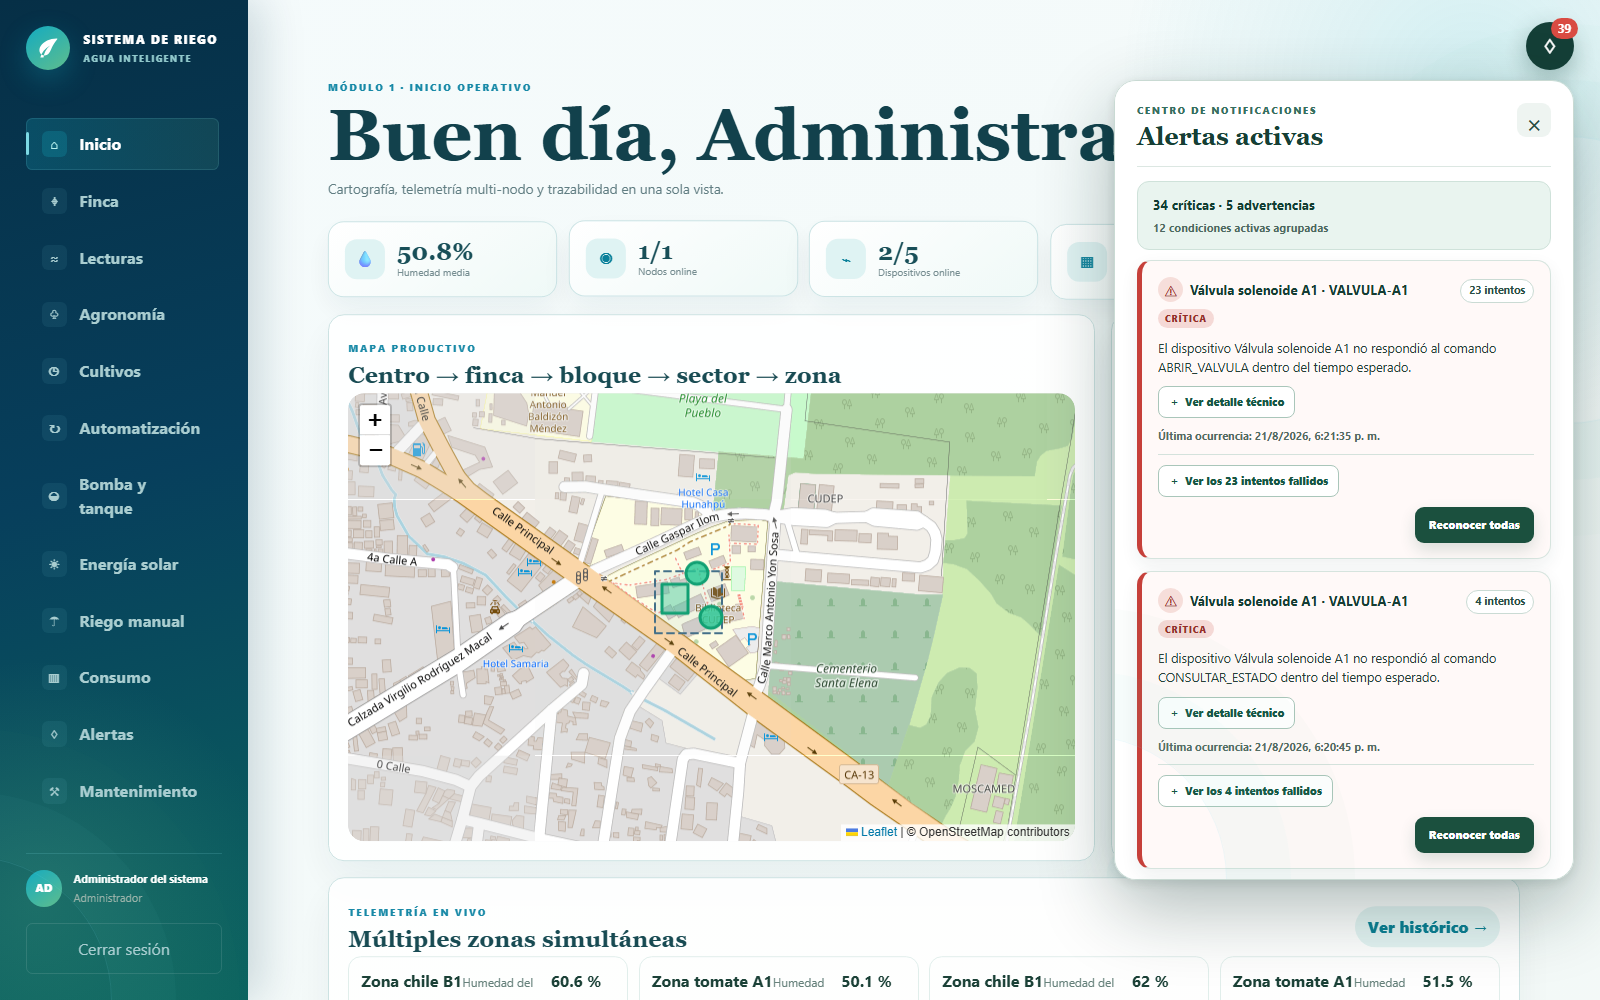
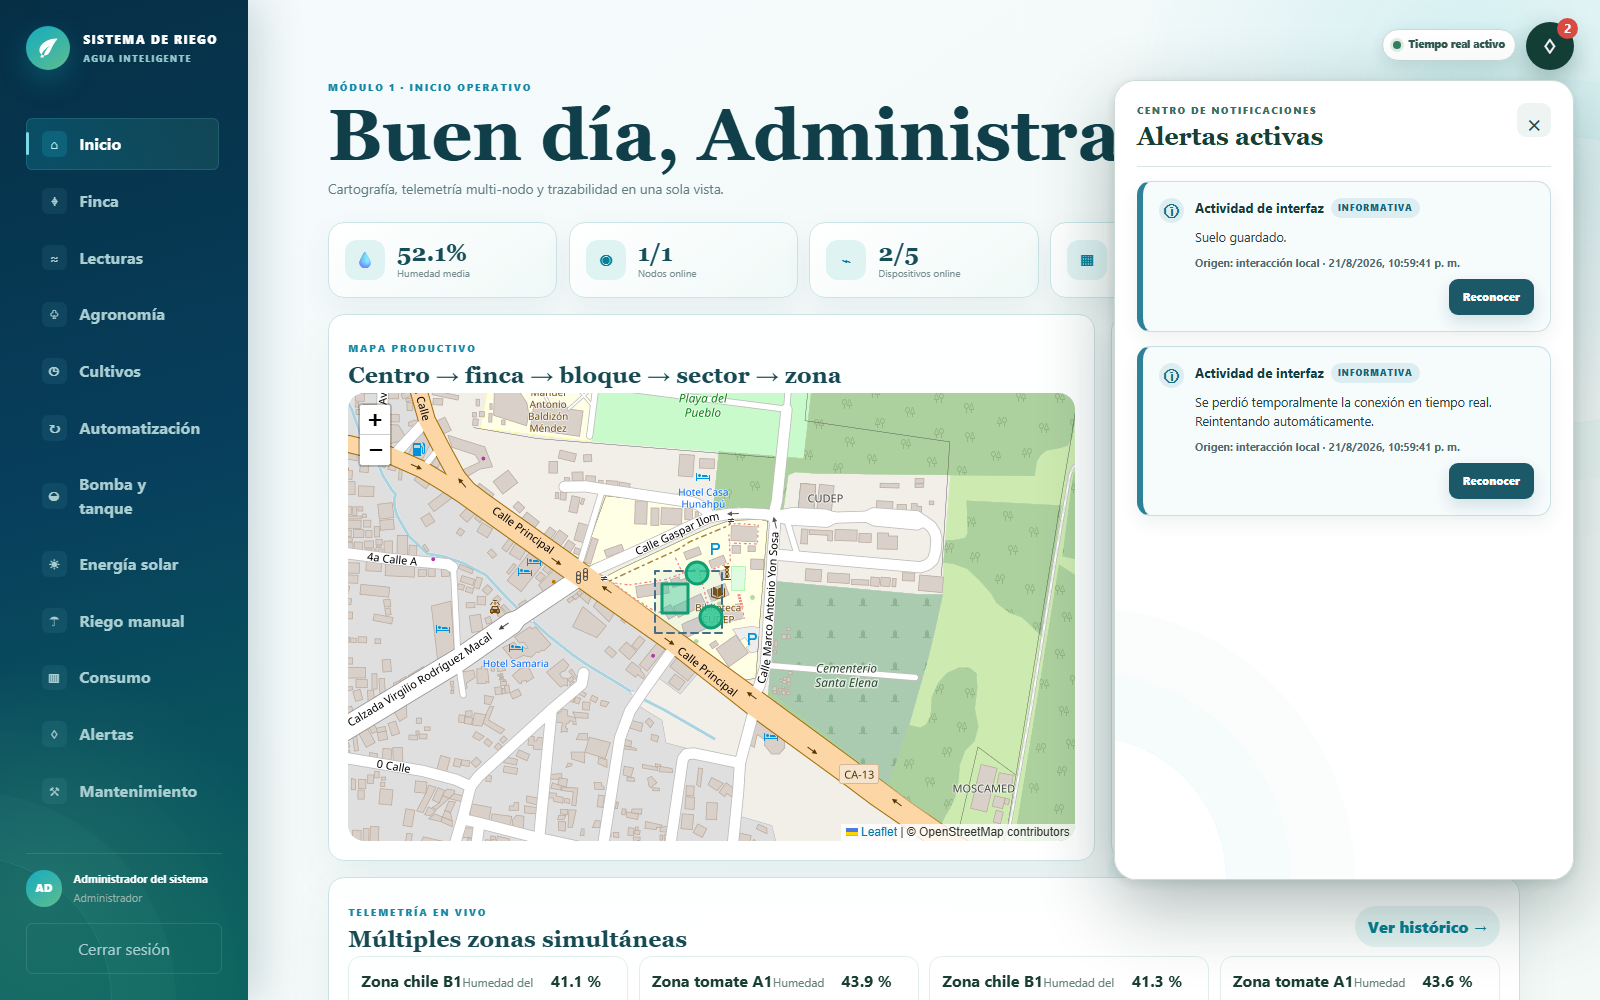
fix: polish informational notifications

diff --git a/frontend/src/Sprint5Operations.tsx b/frontend/src/Sprint5Operations.tsx
@@ -1,5 +1,6 @@
 import { useCallback, useEffect, useMemo, useRef, useState } from 'react'
 import * as signalR from '@microsoft/signalr'
+import { humanizeInterfaceMessage } from './notificationMessages'
 import './sprint5.css'
 
 interface Session { accessToken: string; user: { fullName: string; roles: string[] } }
@@ -7,6 +8,7 @@ interface Props { session: Session; notify: (message: string) => void }
 interface AlertItem { id: number; type: string; severity: string; status: string; origin: string; description: string; relatedEntityType?: string; relatedEntityId?: string; relatedEntityName?: string; raisedAtUtc: string; escalationLevel: number }
 interface LocalNotice { id: string; message: string; raisedAtUtc: string }
 interface AlertGroup { key: string; items: AlertItem[] }
+type RealtimeStatus = 'connecting' | 'online' | 'reconnecting' | 'offline'
 interface Plan { id: string; name: string; frequency: string; intervalDays?: number; equipmentType: string; equipmentId: string; scheduledAtUtc: string; status: string; assignedToEmail?: string; notes?: string }
 interface Incident { id: number; title: string; description: string; equipmentType: string; equipmentId: string; equipmentName?: string; severity: string; status: string; origin: string; createdAtUtc: string; assignedToEmail?: string; notes?: string }
 interface Activity { id: number; title: string; equipmentType: string; equipmentId: string; status: string; scheduledAtUtc: string; performedAtUtc?: string }
@@ -19,6 +21,7 @@ async function api<T>(path: string, token: string, method = 'GET', body?: unknow
   return data as T
 }
 const when = (value: string) => new Date(value).toLocaleString('es-GT')
+
 function Message({ description, name, type, id, heading = false }: { description: string; name?: string; type?: string; id?: string; heading?: boolean }) {
   const marker = '\nDetalle técnico: '
   const parts = description.split(marker)
@@ -44,7 +47,7 @@ function groupAlerts(items: AlertItem[]): AlertGroup[] {
   })).sort((left, right) => new Date(right.items[0].raisedAtUtc).getTime() - new Date(left.items[0].raisedAtUtc).getTime())
 }
 
-function useAlerts(session: Session, notify: (message: string) => void, onRaised?: (alert: AlertItem) => void) {
+function useAlerts(session: Session, notify: (message: string) => void, onRaised?: (alert: AlertItem) => void, onConnectionState?: (status: RealtimeStatus) => void) {
   const [items, setItems] = useState<AlertItem[]>([])
   const onRaisedRef = useRef(onRaised)
   useEffect(() => { onRaisedRef.current = onRaised }, [onRaised])
@@ -53,18 +56,24 @@ function useAlerts(session: Session, notify: (message: string) => void, onRaised
     load()
     const connection = new signalR.HubConnectionBuilder().withUrl(`${hubRoot}/hubs/telemetry`, { accessTokenFactory: () => session.accessToken }).withAutomaticReconnect().configureLogging(signalR.LogLevel.None).build()
     connection.on('alertRaised', (alert: AlertItem) => { onRaisedRef.current?.(alert); void load() })
-    connection.start().catch((error: Error) => notify(`SignalR alertas: ${error.message}`))
+    onConnectionState?.('connecting')
+    connection.onreconnecting(() => onConnectionState?.('reconnecting'))
+    connection.onreconnected(() => onConnectionState?.('online'))
+    connection.onclose(() => onConnectionState?.('offline'))
+    connection.start().then(() => onConnectionState?.('online')).catch(() => onConnectionState?.('offline'))
     return () => { void connection.stop() }
-  }, [load, notify, session.accessToken])
+  }, [load, onConnectionState, session.accessToken])
   return { items, load }
 }
 
 export function NotificationCenter({ session, localNotices, onAcknowledgeLocal }: { session: Session; localNotices: LocalNotice[]; onAcknowledgeLocal: (id: string) => void }) {
   const [open, setOpen] = useState(false)
   const [toast, setToast] = useState<AlertItem | null>(null)
+  const [realtimeStatus, setRealtimeStatus] = useState<RealtimeStatus>('connecting')
   const quiet = useCallback(() => undefined, [])
   const handleRaised = useCallback((alert: AlertItem) => setToast(alert), [])
-  const { items, load } = useAlerts(session, quiet, handleRaised)
+  const handleConnectionState = useCallback((status: RealtimeStatus) => setRealtimeStatus(status), [])
+  const { items, load } = useAlerts(session, quiet, handleRaised, handleConnectionState)
   const active = useMemo(() => items.filter(item => item.status === 'Activa'), [items])
   const groups = useMemo(() => groupAlerts(active), [active])
   const summary = useMemo(() => {
@@ -82,11 +91,13 @@ export function NotificationCenter({ session, localNotices, onAcknowledgeLocal }
     await Promise.all(alerts.map(item => api(`/alerts/${item.id}/acknowledge`, session.accessToken, 'POST')))
     await load()
   }
+  const realtimeLabel = realtimeStatus === 'online' ? 'Tiempo real activo' : realtimeStatus === 'reconnecting' ? 'Reconectando en tiempo real' : realtimeStatus === 'connecting' ? 'Conectando en tiempo real' : 'Tiempo real no disponible'
   return <div className="n-center">
+    <span className={`n-realtime ${realtimeStatus}`} role="status" title={realtimeStatus === 'reconnecting' ? 'Se perdió temporalmente la conexión en tiempo real. Reintentando automáticamente.' : realtimeLabel}><i/>{realtimeLabel}</span>
     <button className="n-bell" onClick={() => setOpen(!open)} aria-label="Centro de notificaciones">♢{active.length + localNotices.length > 0 && <b>{active.length + localNotices.length}</b>}</button>
     {toast && <section className={`n-toast ${toast.severity.toLocaleLowerCase('es')}`} role="status" aria-live="assertive"><header><b>Nueva alerta {toast.severity.toLocaleLowerCase('es')}</b><button aria-label="Descartar notificación" onClick={() => setToast(null)}>×</button></header><Message description={toast.description} name={toast.relatedEntityName} type={toast.relatedEntityType} id={toast.relatedEntityId}/><small>{when(toast.raisedAtUtc)}</small><button className="n-toast-detail" onClick={() => { setOpen(true); setToast(null) }}>Ver detalle</button></section>}
     {open && <aside><header><div><small>CENTRO DE NOTIFICACIONES</small><h2>Alertas activas</h2></div><button onClick={() => setOpen(false)}>×</button></header>
-      {localNotices.map(notice => <div className="n-local" key={notice.id}><b>Actividad de interfaz</b><span>{notice.message}</span><small>Origen: interacción local · {when(notice.raisedAtUtc)}</small><button onClick={() => onAcknowledgeLocal(notice.id)}>Reconocer</button></div>)}
+      {localNotices.map(notice => <article className="n-local" key={notice.id}><span className="n-local-icon" aria-hidden="true">ⓘ</span><div className="n-local-heading"><b>Actividad de interfaz</b><em>INFORMATIVA</em></div><p>{humanizeInterfaceMessage(notice.message)}</p><small>Origen: interacción local · {when(notice.raisedAtUtc)}</small><button onClick={() => onAcknowledgeLocal(notice.id)}>Reconocer</button></article>)}
       {active.length > 0 && <section className="n-summary" aria-label="Resumen de alertas activas"><b>{summary}</b><small>{groups.length} {groups.length === 1 ? 'condición activa' : 'condiciones activas'} agrupadas</small></section>}
       <div className="n-mini-list">{groups.slice(0, 8).map(group => {
         const latest = group.items[0]

diff --git a/frontend/src/Week2App.tsx b/frontend/src/Week2App.tsx
@@ -7,6 +7,7 @@ import { week2Api as api } from './week2Api'
 import Week3IoT from './Week3IoT'
 import EnergyPanel from './EnergyPanel'
 import { AlertsPanel, MaintenancePanel, NotificationCenter } from './Sprint5Operations'
+import { humanizeInterfaceMessage } from './notificationMessages'
 import { OperationalDashboard, TerritoryManager, TelemetryMonitor, AgronomyManager, CropPlanner } from './Modules1To7'
 import { AutomationPanel, WaterSupplyPanel, ManualIrrigationPanel, WaterOperationsPanel } from './Modules7To10'
 import { MasterCatalogManager, TwoFactorSetup, UserSecurityManager } from './Sprint2Administration'
@@ -69,7 +70,7 @@ function Audit({ session, notify }) {
 }
 
 function Shell({ session, onLogout }) {
-  const isAdmin=session.user.roles.includes('Administrador'); const canCatalog=session.user.roles.some(x=>['Administrador','Tecnico','Operador'].includes(x)); const [view,setView]=useState('inicio'); const [localNotices,setLocalNotices]=useState(()=>{try{return JSON.parse(sessionStorage.getItem('riego.localNotices')??'[]')}catch{return []}}); const notify=useCallback(message=>setLocalNotices(current=>[...current,{id:crypto.randomUUID(),message,raisedAtUtc:new Date().toISOString()}]),[]); const acknowledgeLocalNotice=useCallback(id=>setLocalNotices(current=>current.filter(item=>item.id!==id)),[]); useEffect(()=>sessionStorage.setItem('riego.localNotices',JSON.stringify(localNotices)),[localNotices])
+  const isAdmin=session.user.roles.includes('Administrador'); const canCatalog=session.user.roles.some(x=>['Administrador','Tecnico','Operador'].includes(x)); const [view,setView]=useState('inicio'); const [localNotices,setLocalNotices]=useState(()=>{try{return JSON.parse(sessionStorage.getItem('riego.localNotices')??'[]')}catch{return []}}); const notify=useCallback(message=>setLocalNotices(current=>[...current,{id:crypto.randomUUID(),message:humanizeInterfaceMessage(String(message)),raisedAtUtc:new Date().toISOString()}]),[]); const acknowledgeLocalNotice=useCallback(id=>setLocalNotices(current=>current.filter(item=>item.id!==id)),[]); useEffect(()=>sessionStorage.setItem('riego.localNotices',JSON.stringify(localNotices)),[localNotices])
   const nav=useMemo(()=>[{id:'inicio',label:'Inicio',icon:'⌂'},{id:'territory',label:'Finca',icon:'⌖'},{id:'telemetry',label:'Lecturas',icon:'≈'},{id:'agronomy',label:'Agronomía',icon:'♧'},{id:'planning',label:'Cultivos',icon:'◷'},{id:'automation',label:'Automatización',icon:'↻'},{id:'supply',label:'Bomba y tanque',icon:'◒'},{id:'energy',label:'Energía solar',icon:'☀'},{id:'manual',label:'Riego manual',icon:'☂'},{id:'operations',label:'Consumo',icon:'▥'},{id:'alerts',label:'Alertas',icon:'♢'},{id:'maintenance',label:'Mantenimiento',icon:'⚒'},{id:'overview',label:'Administración',icon:'▦'},...(isAdmin?[{id:'users',label:'Usuarios',icon:'♙'},{id:'security',label:'Seguridad 2FA',icon:'◆'}]:[]),...(canCatalog?[{id:'catalogs',label:'Catálogos',icon:'◉'},{id:'iot',label:'Red IoT',icon:'⌁'}]:[]),...(isAdmin?[{id:'settings',label:'Parámetros',icon:'⚙'},{id:'audit',label:'Auditoría',icon:'✓'}]:[])],[isAdmin,canCatalog])
   return <main className="w2-app"><aside><div className="w2-logo"><span><Leaf/></span><div>Sistema de Riego<small>Agua inteligente</small></div></div><nav>{nav.map(item=><button key={item.id} className={view===item.id?'active':''} onClick={()=>setView(item.id)}><span className="w2-nav-icon">{item.icon}</span>{item.label}</button>)}</nav><div className="w2-profile"><span>{session.user.fullName.slice(0,2).toUpperCase()}</span><div><b>{session.user.fullName}</b><small>{session.user.roles.join(', ')}</small></div></div><button className="w2-logout" onClick={onLogout}>Cerrar sesión</button></aside><NotificationCenter session={session} localNotices={localNotices} onAcknowledgeLocal={acknowledgeLocalNotice}/><section className="w2-content">{view==='inicio'&&<OperationalDashboard session={session} onNavigate={setView} notify={notify}/>} {view==='territory'&&<TerritoryManager session={session} notify={notify}/>} {view==='telemetry'&&<TelemetryMonitor session={session} notify={notify}/>} {view==='agronomy'&&<AgronomyManager session={session} notify={notify}/>} {view==='planning'&&<CropPlanner session={session} notify={notify}/>} {view==='automation'&&<AutomationPanel session={session} notify={notify}/>} {view==='supply'&&<WaterSupplyPanel session={session} notify={notify}/>} {view==='energy'&&<EnergyPanel session={session} notify={notify}/>} {view==='manual'&&<ManualIrrigationPanel session={session} notify={notify}/>} {view==='operations'&&<WaterOperationsPanel session={session} notify={notify}/>} {view==='alerts'&&<AlertsPanel session={session} notify={notify}/>} {view==='maintenance'&&<MaintenancePanel session={session} notify={notify}/>} {view==='overview'&&<Overview session={session} onNavigate={setView}/>} {view==='users'&&<UserSecurityManager session={session} notify={notify}/>} {view==='security'&&<TwoFactorSetup session={session} notify={notify}/>} {view==='catalogs'&&<MasterCatalogManager session={session} notify={notify}/>} {view==='iot'&&<Week3IoT session={session} notify={notify}/>} {view==='settings'&&<Settings session={session} notify={notify}/>} {view==='audit'&&<Audit session={session} notify={notify}/>}</section></main>
 }

diff --git a/frontend/src/sprint5.css b/frontend/src/sprint5.css
@@ -18,10 +18,13 @@
 .n-center aside>header h2{margin:0;color:#173f35;font:600 1.55rem/1.15 Georgia,serif}
 .n-center aside>header>button{display:grid;place-items:center;width:34px;height:34px;padding:0;border-radius:9px!important;color:#294e45!important;background:#eef4f1!important;cursor:pointer;transition:.18s ease}
 .n-center aside>header>button:hover{background:#dceae4!important;color:#123c31!important;transform:translateY(-1px)}
-.n-local{position:relative;grid-template-columns:auto 1fr;gap:4px 10px!important;padding:14px 15px!important;margin-top:14px!important;border:1px solid #c9dfe2;border-left:5px solid #31829a;border-radius:12px!important;background:#edf7f8!important;color:#234e58}
-.n-local::before{content:"ⓘ";grid-row:1/4;display:grid;place-items:center;width:28px;height:28px;border-radius:50%;background:#d7edf0;color:#176c82;font-weight:900}
-.n-local b{color:#174d5b;font-size:.78rem}.n-local span{color:#315c65;font-size:.78rem;line-height:1.45}.n-local small{color:#58757a;font-size:.68rem;font-weight:700}
-.n-local>button{grid-column:2;justify-self:end;min-height:34px;padding:8px 13px;border:0;border-radius:9px;background:#176c82;color:#fff;font-size:.7rem;font-weight:800;cursor:pointer}.n-local>button:hover{background:#10566a}
+.n-realtime{position:absolute;right:58px;top:7px;display:flex;align-items:center;gap:7px;width:max-content;padding:7px 10px;border:1px solid #c8dad3;border-radius:999px;background:#fff;color:#31594f;font-size:.66rem;font-weight:800;box-shadow:0 6px 18px rgba(20,63,55,.12)}
+.n-realtime i{width:8px;height:8px;border-radius:50%;background:#d29419;box-shadow:0 0 0 3px rgba(210,148,25,.14)}.n-realtime.online i{background:#318060;box-shadow:0 0 0 3px rgba(49,128,96,.14)}.n-realtime.offline i{background:#b74a43;box-shadow:0 0 0 3px rgba(183,74,67,.14)}
+.n-local{position:relative;grid-template-columns:auto 1fr;gap:9px 11px!important;padding:16px!important;margin-top:14px!important;border:1px solid #c9dfe2;border-left:6px solid #2d8298;border-radius:14px!important;background:#f6fbfc!important;color:#193f46;box-shadow:0 7px 18px rgba(23,63,53,.07)}
+.n-local-icon{grid-row:1/4;display:grid;place-items:center;width:25px;height:25px;border-radius:50%;background:#dceef2;color:#176f86;font-size:.85rem;font-weight:900}
+.n-local-heading{display:flex;align-items:center;flex-wrap:wrap;gap:7px}.n-local-heading b{color:#163d42;font-size:.82rem;line-height:1.35}.n-local-heading em{padding:3px 7px;border-radius:999px;background:#dceef2;color:#17667a;font-size:.57rem;font-style:normal;font-weight:900;letter-spacing:.08em}
+.n-local p{grid-column:2;margin:0;color:#263f43;font-size:.79rem;line-height:1.52}.n-local small{grid-column:2;color:#526b6e;font-size:.68rem;font-weight:650;line-height:1.4}
+.n-local>button{grid-column:2;justify-self:end;min-height:36px;padding:9px 14px;border:0;border-radius:9px;background:#1b5969;color:#fff;font-size:.7rem;font-weight:800;cursor:pointer;box-shadow:0 7px 16px rgba(27,89,105,.16);transition:background .18s ease,transform .18s ease,box-shadow .18s ease}.n-local>button:hover{background:#124857;transform:translateY(-1px);box-shadow:0 10px 20px rgba(27,89,105,.22)}.n-local>button:focus-visible{outline:3px solid rgba(8,127,156,.28);outline-offset:2px}
 .n-summary{gap:5px;margin:14px 0 10px;padding:13px 15px;border:1px solid #cfe2da;background:#e9f4ef;color:#143f37}
 .n-summary b{color:#123d32;font-size:.82rem}.n-summary small{color:#4d6a61;font-size:.7rem;font-weight:700}
 .n-mini-list{display:grid;gap:12px}
@@ -50,5 +53,5 @@
 .n-occurrences>div{gap:6px 10px;padding:11px;border:1px solid #dce7e2;background:#fff;color:#21483e}
 .n-occurrences>div>b{color:#183f36;font-size:.72rem}.n-occurrences time{color:#526c64;font-size:.68rem;font-weight:650}.n-occurrences>div>span{color:#304f46;font-size:.74rem;line-height:1.45}
 .n-toast{z-index:121;color:#183f36;background:#fff;box-shadow:0 22px 60px rgba(13,48,40,.3)}.n-toast>span{color:#27483f;line-height:1.5}.n-toast small{color:#526c64;font-weight:650}
-@media(max-width:600px){.n-center aside{width:calc(100vw - 24px);padding:17px}.n-mini-list article{padding:14px}.n-group-heading{flex-wrap:wrap}.n-group-heading em{margin-left:32px}}
+@media(max-width:600px){.n-center aside{width:calc(100vw - 24px);padding:17px}.n-realtime{right:56px;max-width:185px}.n-mini-list article{padding:14px}.n-group-heading{flex-wrap:wrap}.n-group-heading em{margin-left:32px}}
 @media(prefers-reduced-motion:reduce){.n-center button,.n-center summary,.n-toast{animation:none;transition:none}}

diff --git a/frontend/src/notificationMessages.ts b/frontend/src/notificationMessages.ts
@@ -1,0 +1,8 @@
+export function humanizeInterfaceMessage(message: string) {
+  const clean = message.replace(/^(?:Error|TypeError):\s*/i, '').trim()
+  if (/signalr|connection was stopped during negotiation|hubconnection|negotia(?:te|tion)/i.test(clean)) return 'Se perdió temporalmente la conexión en tiempo real. Reintentando automáticamente.'
+  if (/failed to fetch|network(?:error| request failed)|load failed|fetch failed/i.test(clean)) return 'No fue posible comunicarse con el sistema. Verifica la conexión e inténtalo nuevamente.'
+  if (/unexpected token|invalid json|json parse|not valid json/i.test(clean)) return 'La respuesta del sistema no pudo interpretarse. Inténtalo nuevamente.'
+  if (/abort(?:ed|error)|operation was canceled|operation was cancelled/i.test(clean)) return 'La operación se interrumpió antes de completarse.'
+  return clean || 'No fue posible completar la operación.'
+}
